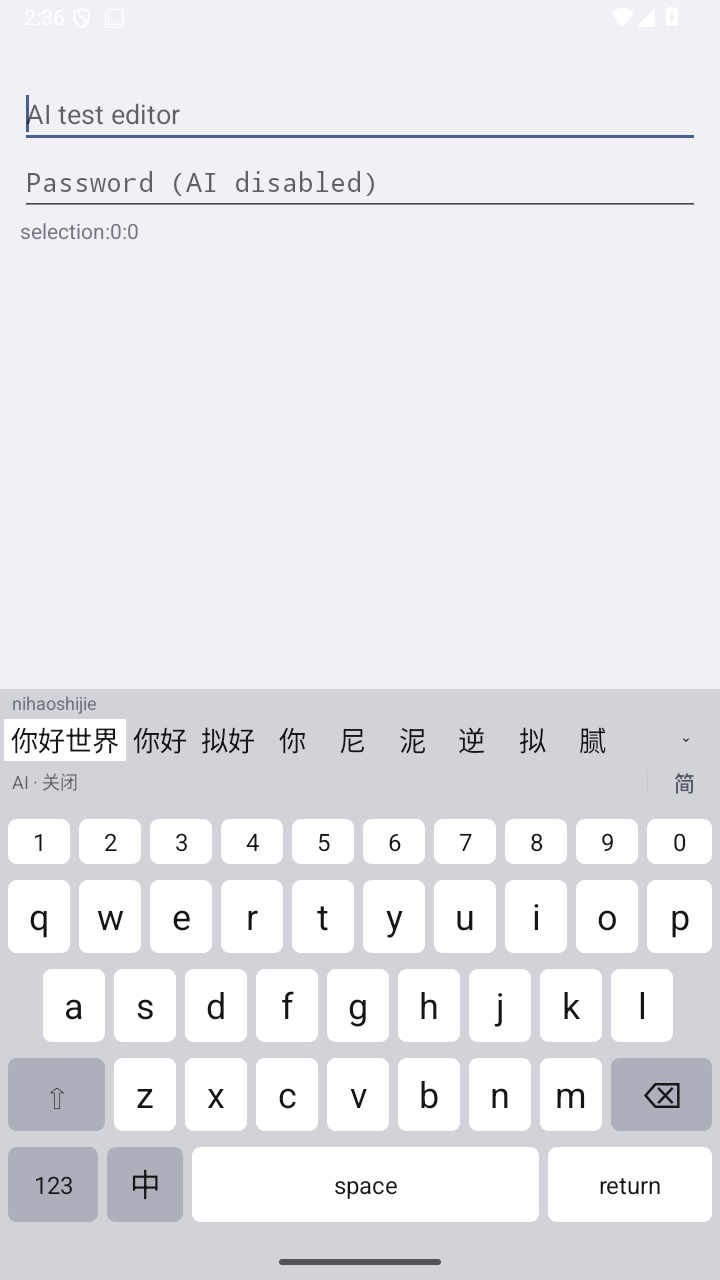
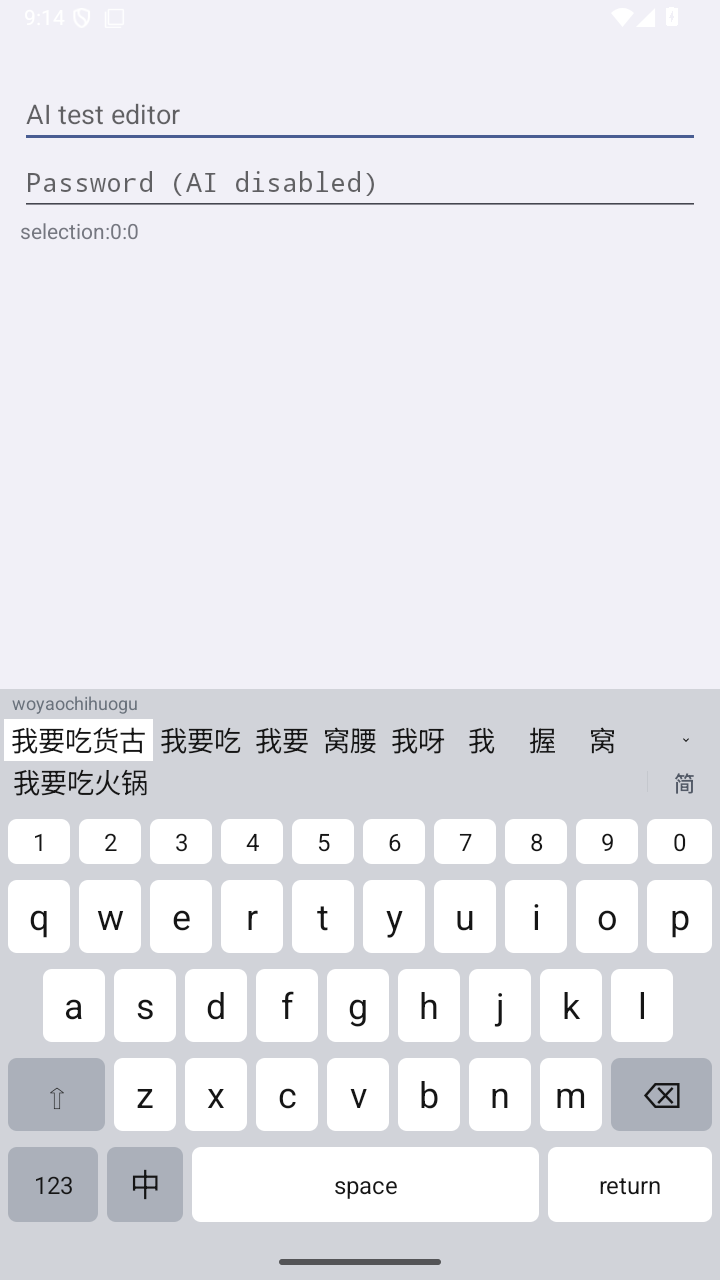
Show actual online AI correction during typing instead of settings

diff --git a/README.md b/README.md
@@ -26,22 +26,13 @@ Chinese mode converts pinyin to Chinese while keeping and correcting English. En
 
 Cloud assistance supports **OpenAI and OpenRouter**, with separate policies for models, reasoning effort, speed, and provider routing. The quality depends on the model—and your wallet. **LLM features require an internet connection: models run on remote services accessed through OpenAI or OpenRouter, not locally on your phone or computer.** Offline typing uses Rime and local dictionaries. Cloud AI sends your input and configured surrounding context to your chosen API service. Keys are encrypted on your device.
 
-## 界面预览 · Screenshots
+## 输入与 AI 纠错 · AI-assisted typing
 
-<table>
-  <tr>
-    <th>Windows · Policy 与模型配置</th>
-    <th>Android · 拼音候选与键盘</th>
-  </tr>
-  <tr>
-    <td valign="top"><img src="docs/images/windows-settings.png" alt="Windows 1.5.5：当前 Policy 高亮、OpenAI 与 OpenRouter 配置、模型和思考参数" width="620"></td>
-    <td valign="top"><img src="docs/images/android-keyboard.png" alt="Android 模拟器：nihaoshijie 拼音候选、数字行、中英与繁简切换" width="280"></td>
-  </tr>
-</table>
+<img src="docs/images/android-keyboard.png" alt="真实在线 AI 纠错：输入 woyaochihuogu，本地候选为我要吃货古，下方 AI 候选为我要吃火锅" width="360">
 
-Windows 1.5.5 的设置页：顶部高亮当前 Policy，下方配置模型、思考强度和速度。Android 调试版模拟器实图：拼音提示、本地候选、数字行和中英、繁简切换，图中云端 AI 关闭。
+Android 调试版模拟器实图：输入 `woyaochihuogu`，上方本地候选为“我要吃货古”，下方在线 LLM 给出“我要吃火锅”。点击 AI 候选即可上屏。
 
-Windows 1.5.5 shows the active policy and model controls. The Android debug build is shown in an emulator with pinyin, local candidates, a number row, and language/script switches; cloud AI is off in this capture.
+Actual Android debug build in an emulator: for `woyaochihuogu`, the local candidate reads “我要吃货古”, while the online LLM suggests “我要吃火锅” (I want to eat hotpot). Tap the AI suggestion to commit it.
 
 ## 输入示例 · Examples
 
